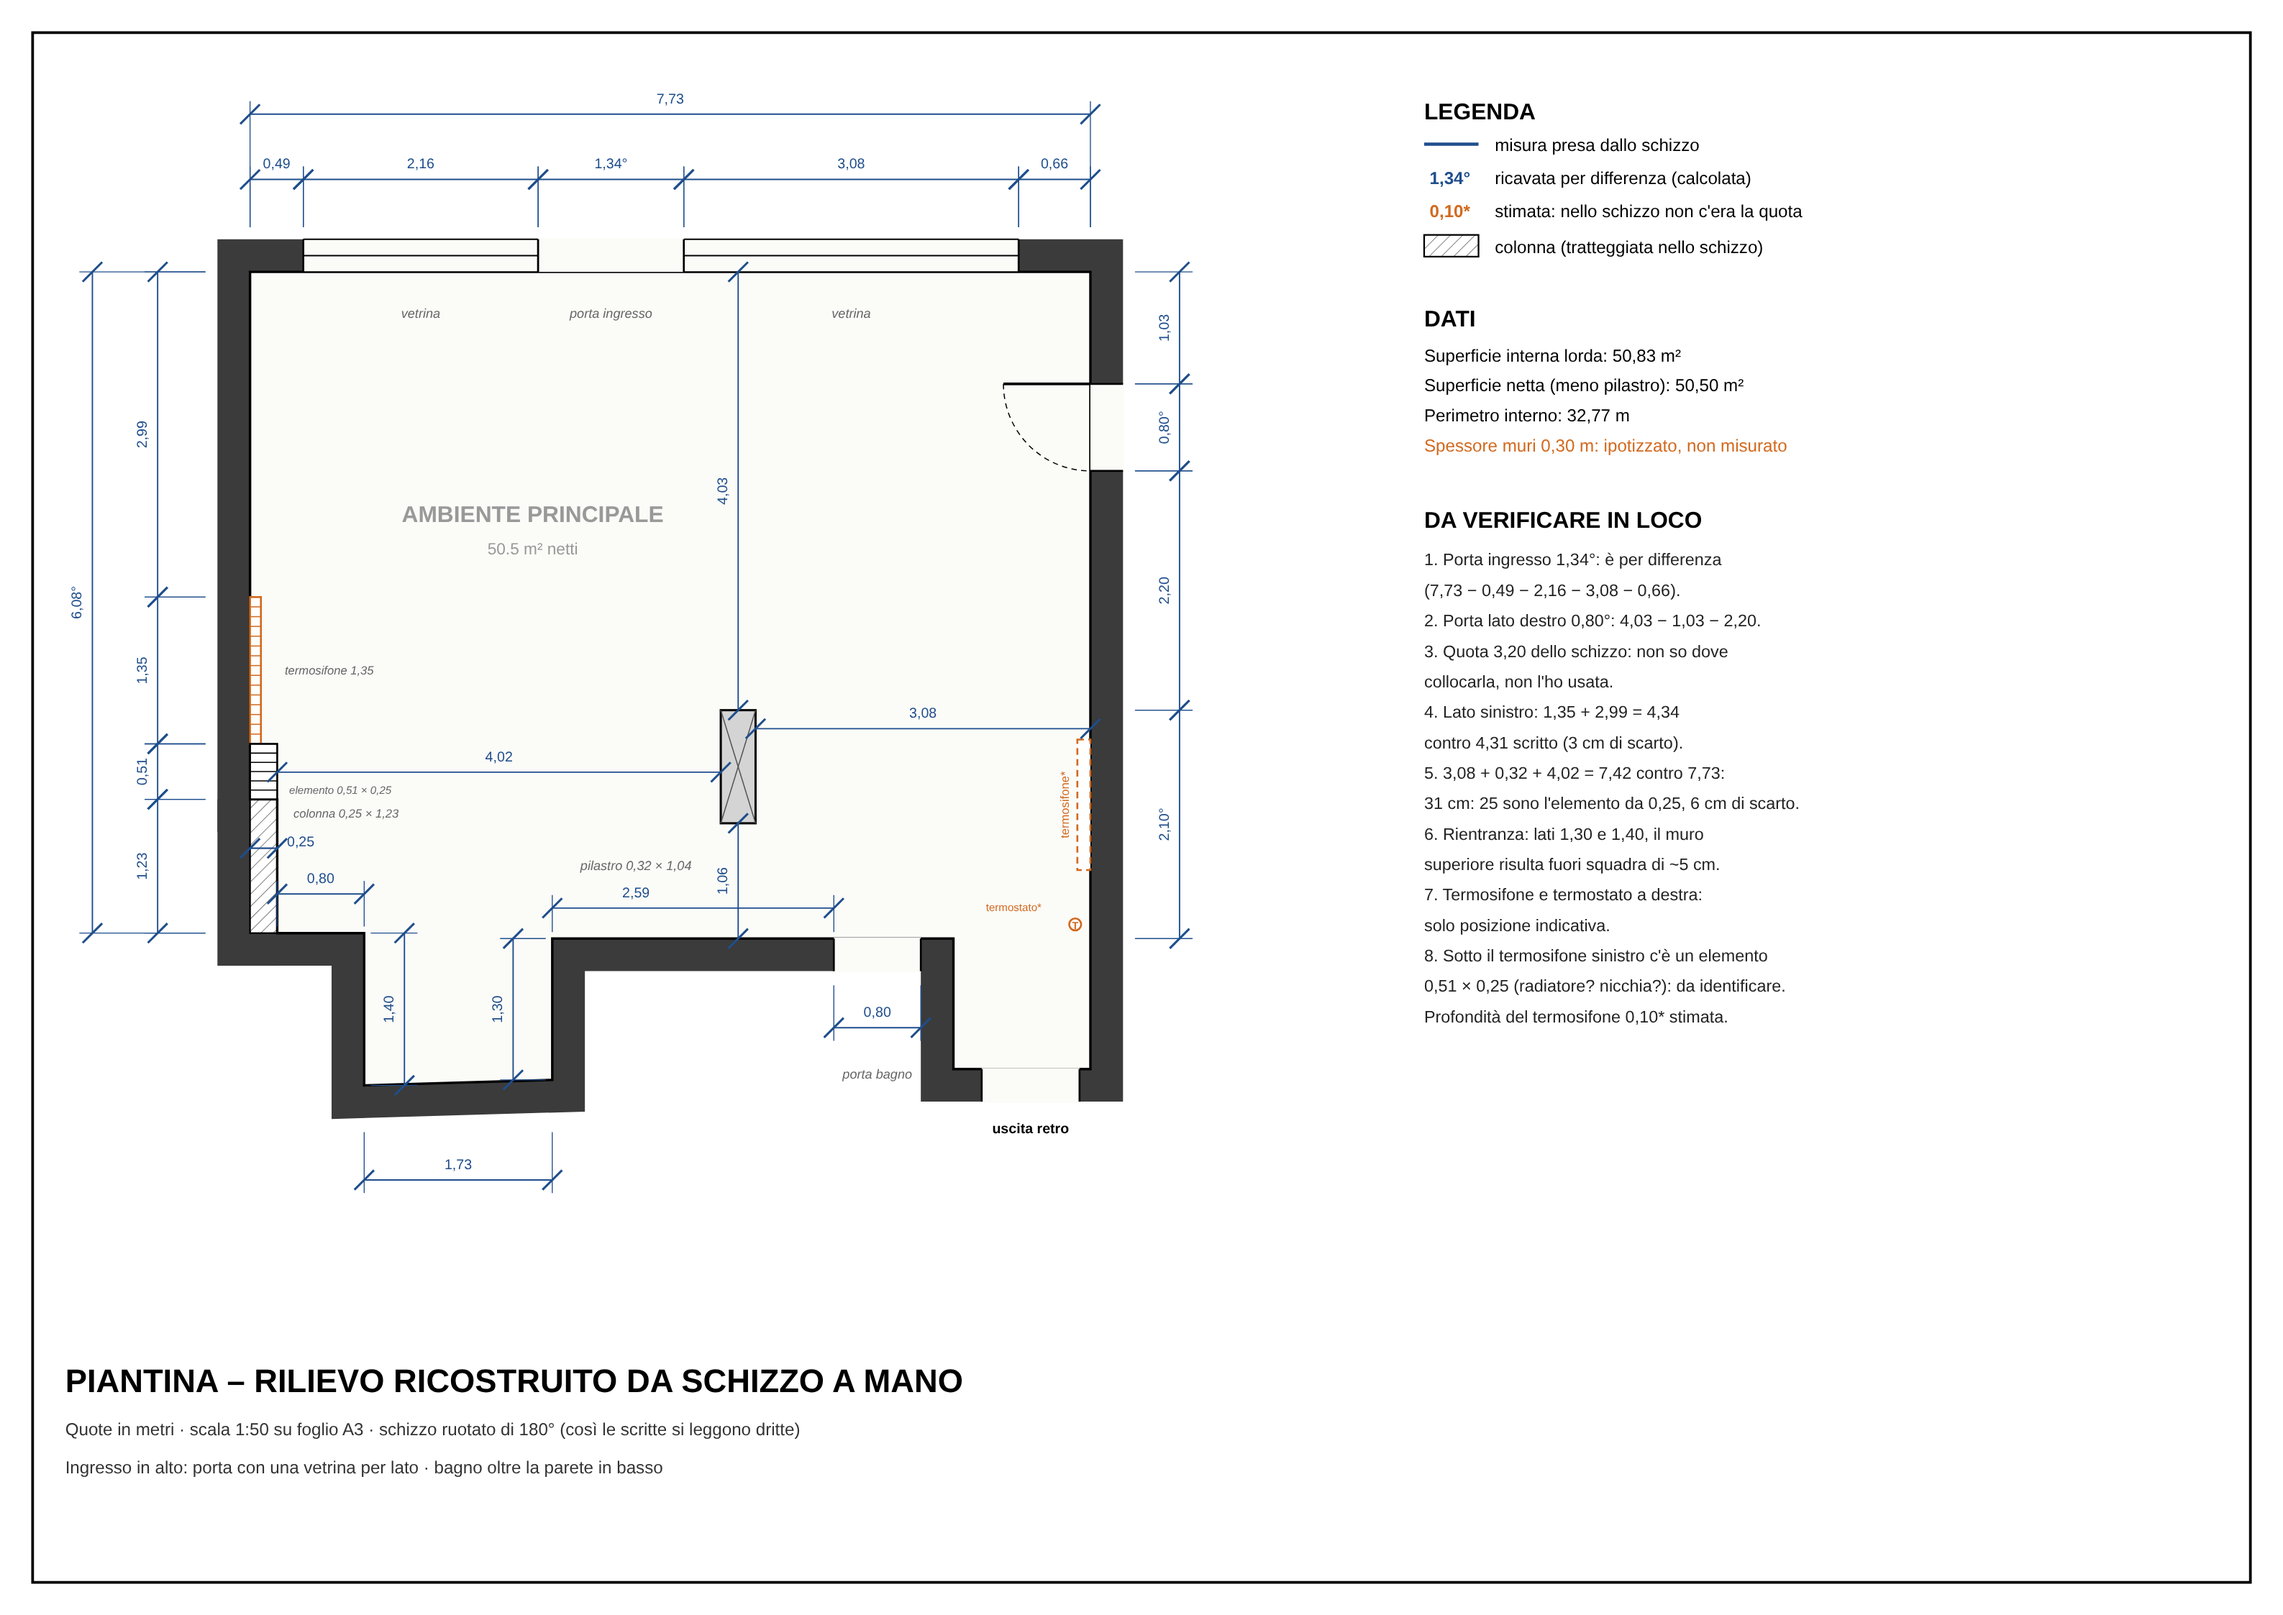
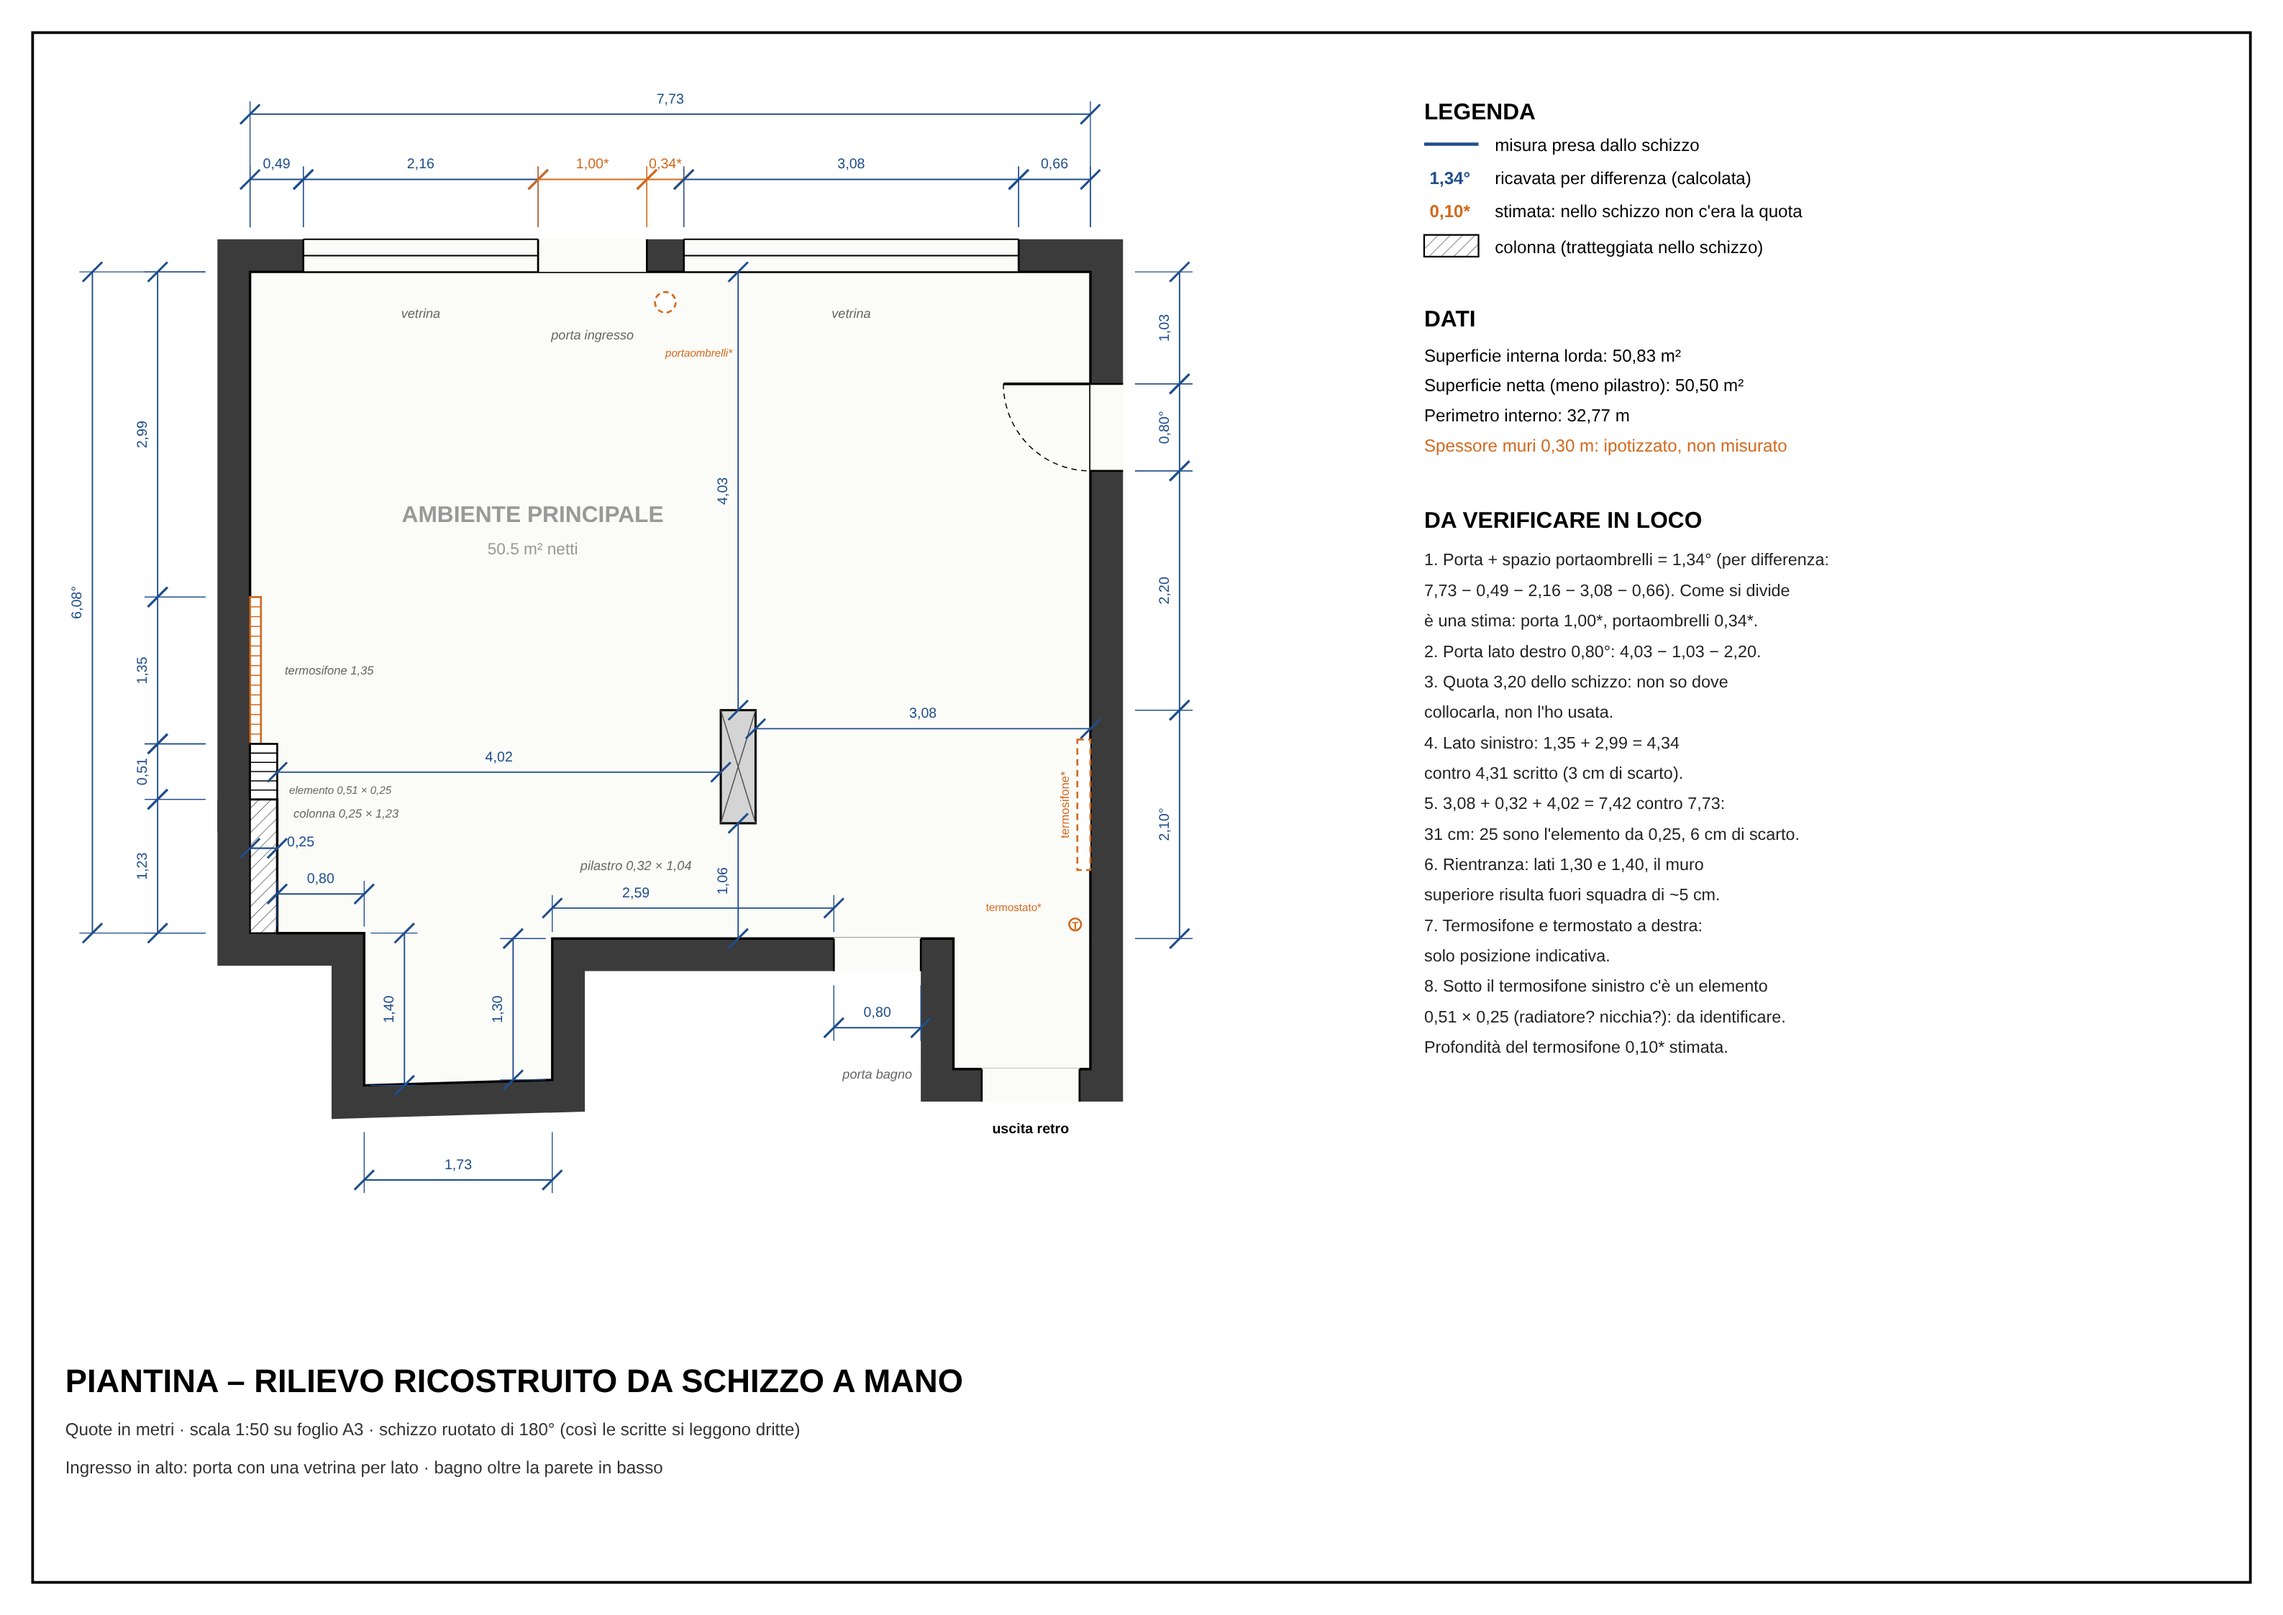
Riduce la porta d'ingresso e aggiunge lo spazio portaombrelli
Claude-Session: https://claude.ai/code/session_012mEpG2XJd9CwTCZtepJEcC

Changed region(s): [[0.6238, 0.3428, 0.7798, 0.6545], [0.2495, 0.0935, 0.3119, 0.187], [0.2495, 0.187, 0.2807, 0.2182]]

diff --git a/piantina/genera_piantina.py b/piantina/genera_piantina.py
@@ -134,7 +134,9 @@ opening(3.99, -T - 0.01, 7.07, 0.0, [(3.99, -T, 3.99, 0), (7.07, -T, 7.07, 0)])
 for yy in (-T, -T / 2, 0):
     line(3.99, yy, 7.07, yy, "#000", 0.25)
 # porta d'ingresso: X' 2,65 -> 3,99 (1,34 ricavata)
-opening(2.65, -T - 0.01, 3.99, 0.0, [(2.65, -T, 2.65, 0), (3.99, -T, 3.99, 0)])
+opening(2.65, -T - 0.01, 3.65, 0.0, [(2.65, -T, 2.65, 0), (3.65, -T, 3.65, 0)])
+# spazio portaombrelli tra porta e vetrina larga: X' 3,65 -> 3,99 (stima)
+add(f'<circle cx="{f(X(3.82))}" cy="{f(Y(0.28))}" r="1.9" fill="#fff" stroke="{ORANGE}" stroke-width="0.35" stroke-dasharray="1 0.7"/>')
 # porta lato destro: Y' 1,03 -> 1,83 (0,80), cerniera lato ingresso, apre verso l'interno
 opening(W, 1.03, W + T + 0.01, 1.83, [(W, 1.03, W + T, 1.03), (W, 1.83, W + T, 1.83)])
 line(W, 1.03, W - 0.80, 1.03, "#000", 0.5)
@@ -172,7 +174,8 @@ text(W - 0.45, 5.88, "termostato*", 2.0, ORANGE, anchor="end")
 # ---- etichette ambienti/aperture
 text(1.57, 0.42, "vetrina", 2.4, GREY, style="italic")
 text(5.53, 0.42, "vetrina", 2.4, GREY, style="italic")
-text(3.32, 0.42, "porta ingresso", 2.4, GREY, style="italic")
+text(3.15, 0.62, "porta ingresso", 2.4, GREY, style="italic")
+text(3.82, 0.78, "portaombrelli*", 2.0, ORANGE, anchor="start", style="italic")
 text(3.55, 5.50, "pilastro 0,32 × 1,04", 2.4, GREY, style="italic")
 text(0.32, 3.70, "termosifone 1,35", 2.2, GREY, anchor="start", style="italic")
 text(0.36, 4.80, "elemento 0,51 × 0,25", 2.0, GREY, anchor="start", style="italic")
@@ -185,7 +188,7 @@ text(2.6, 2.6, f"{area - pillar_area:.1f} m² netti", 3.0, "#999")
 # ---------------------------------------------------------------- QUOTE
 # fronte ingresso (in alto)
 yl = -0.85
-for (a, b, lab, k) in [(0, 0.49, "0,49", "m"), (0.49, 2.65, "2,16", "m"), (2.65, 3.99, "1,34°", "m"),
+for (a, b, lab, k) in [(0, 0.49, "0,49", "m"), (0.49, 2.65, "2,16", "m"), (2.65, 3.65, "1,00*", "e"), (3.65, 3.99, "0,34*", "e"),
                        (3.99, 7.07, "3,08", "m"), (7.07, 7.73, "0,66", "m")]:
     dim_h(a, b, yl, lab, yobj=-T - 0.05, kind=k)
 dim_h(0, 7.73, -1.45, "7,73", yobj=-T - 0.05)
@@ -249,8 +252,9 @@ ptext(px, 83, "Spessore muri 0,30 m: ipotizzato, non misurato", 3.2, ORANGE)
 
 ptext(px, 97, "DA VERIFICARE IN LOCO", 4.2, "#000", weight="bold")
 notes = [
-    "1. Porta ingresso 1,34°: è per differenza",
-    "    (7,73 − 0,49 − 2,16 − 3,08 − 0,66).",
+    "1. Porta + spazio portaombrelli = 1,34° (per differenza:",
+    "    7,73 − 0,49 − 2,16 − 3,08 − 0,66). Come si divide",
+    "    è una stima: porta 1,00*, portaombrelli 0,34*.",
     "2. Porta lato destro 0,80°: 4,03 − 1,03 − 2,20.",
     "3. Quota 3,20 dello schizzo: non so dove",
     "    collocarla, non l'ho usata.",
